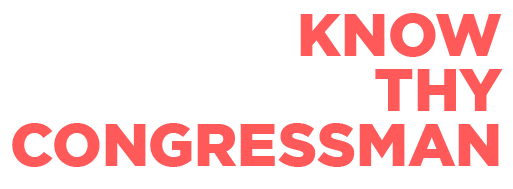
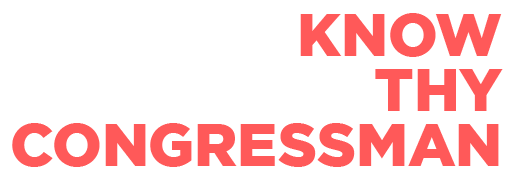
switching to JPG et cet with white backer

diff --git a/public/stylesheets/bookmarklet.css b/public/stylesheets/bookmarklet.css
@@ -16,18 +16,28 @@ a {
 .container {
   position: fixed;
   top: 0px; right: 0px; bottom: 0px; left: 0px;
-  background: #fff url(/images/sky.png) 0 0 repeat-x;
+  background: #fff;
 }
-  #explanation {
+  #explanation, #explanation_backer {
     color: #422;
     width: 400px;
     position: fixed;
-    right: 15px; top: 31.5%;
+    right: 15px; top: 32.5%;
     border-right: 11px solid #fb5353;
-    padding: 11px 8px 11px 0;
+    padding: 11px 8px 11px 8px;
     text-align: right;
     font: 14px/20px Arial, sans-serif;
   }
+    #explanation_backer {
+      height: 282px; width: 412px;
+      padding: 0;
+      background: white;
+      opacity: 0.5;
+      filter: alpha(opacity=50);
+    }
+    #explanation p {
+      margin: 12px 0 12px 0;
+    }
     #explanation span.def {
       background: #edd;
       padding: 0 2px 0 2px;
@@ -61,7 +71,7 @@ a {
 }
   #senator {
     height: 556px;
-    background: url('/images/ashurst_arizona.png') 0 0 no-repeat;
+    background: url('/images/ashurst_arizona.jpg') 0 0 no-repeat;
   }
   #ashurst {
     font: 11px Arial, sans-serif;
